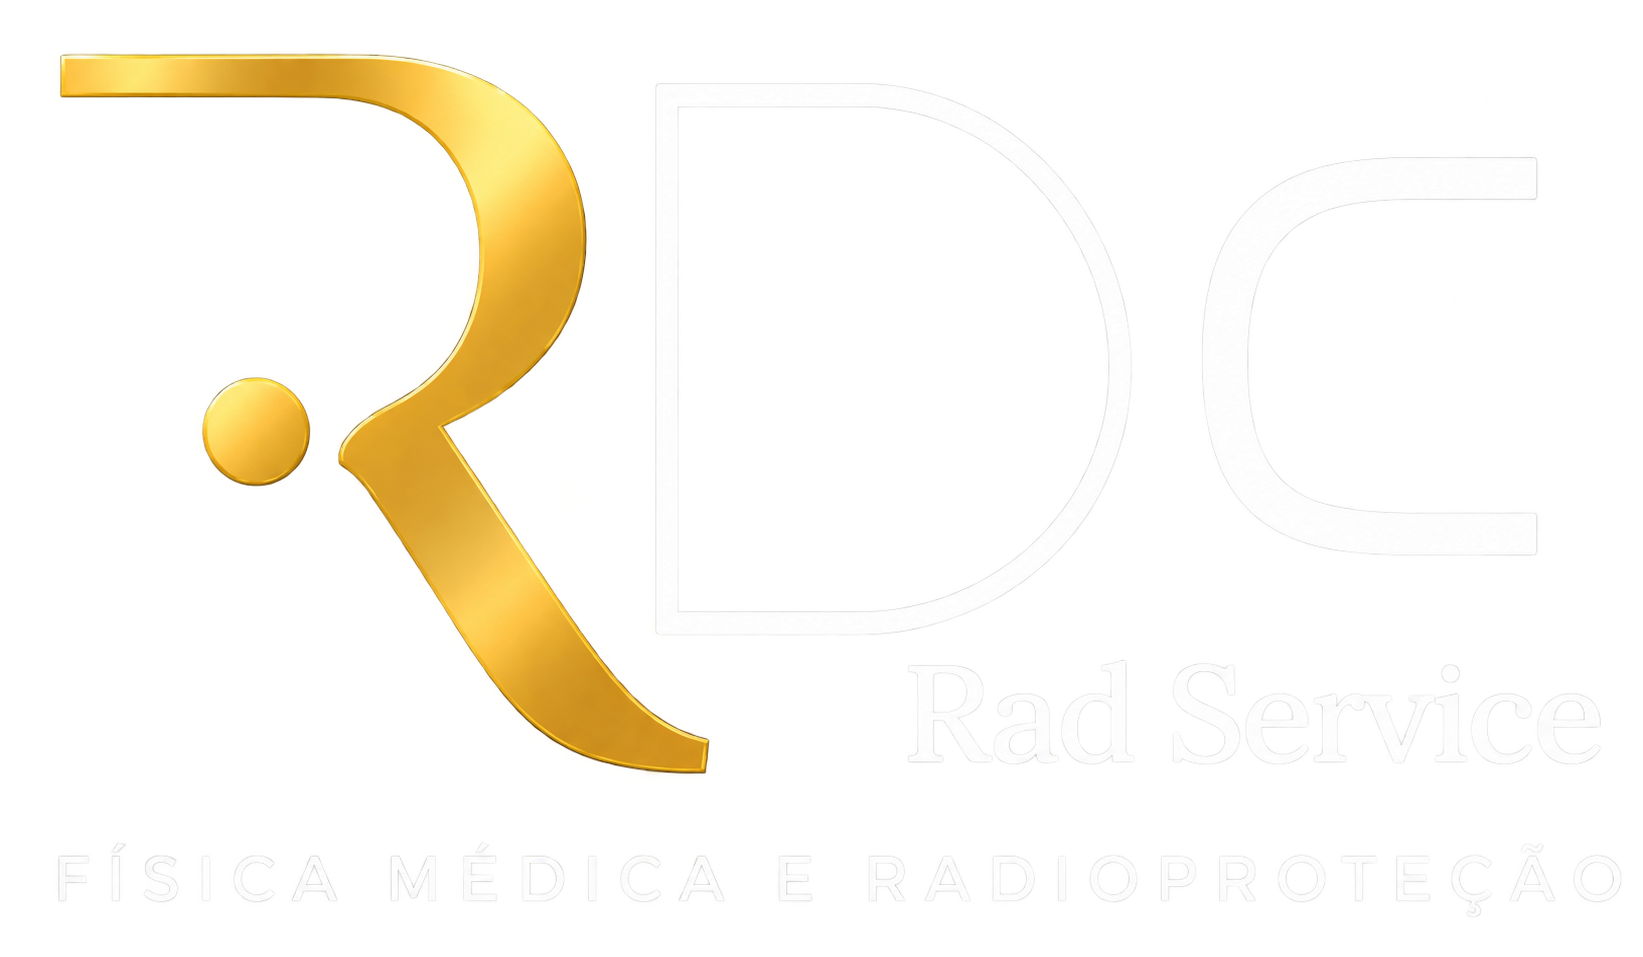
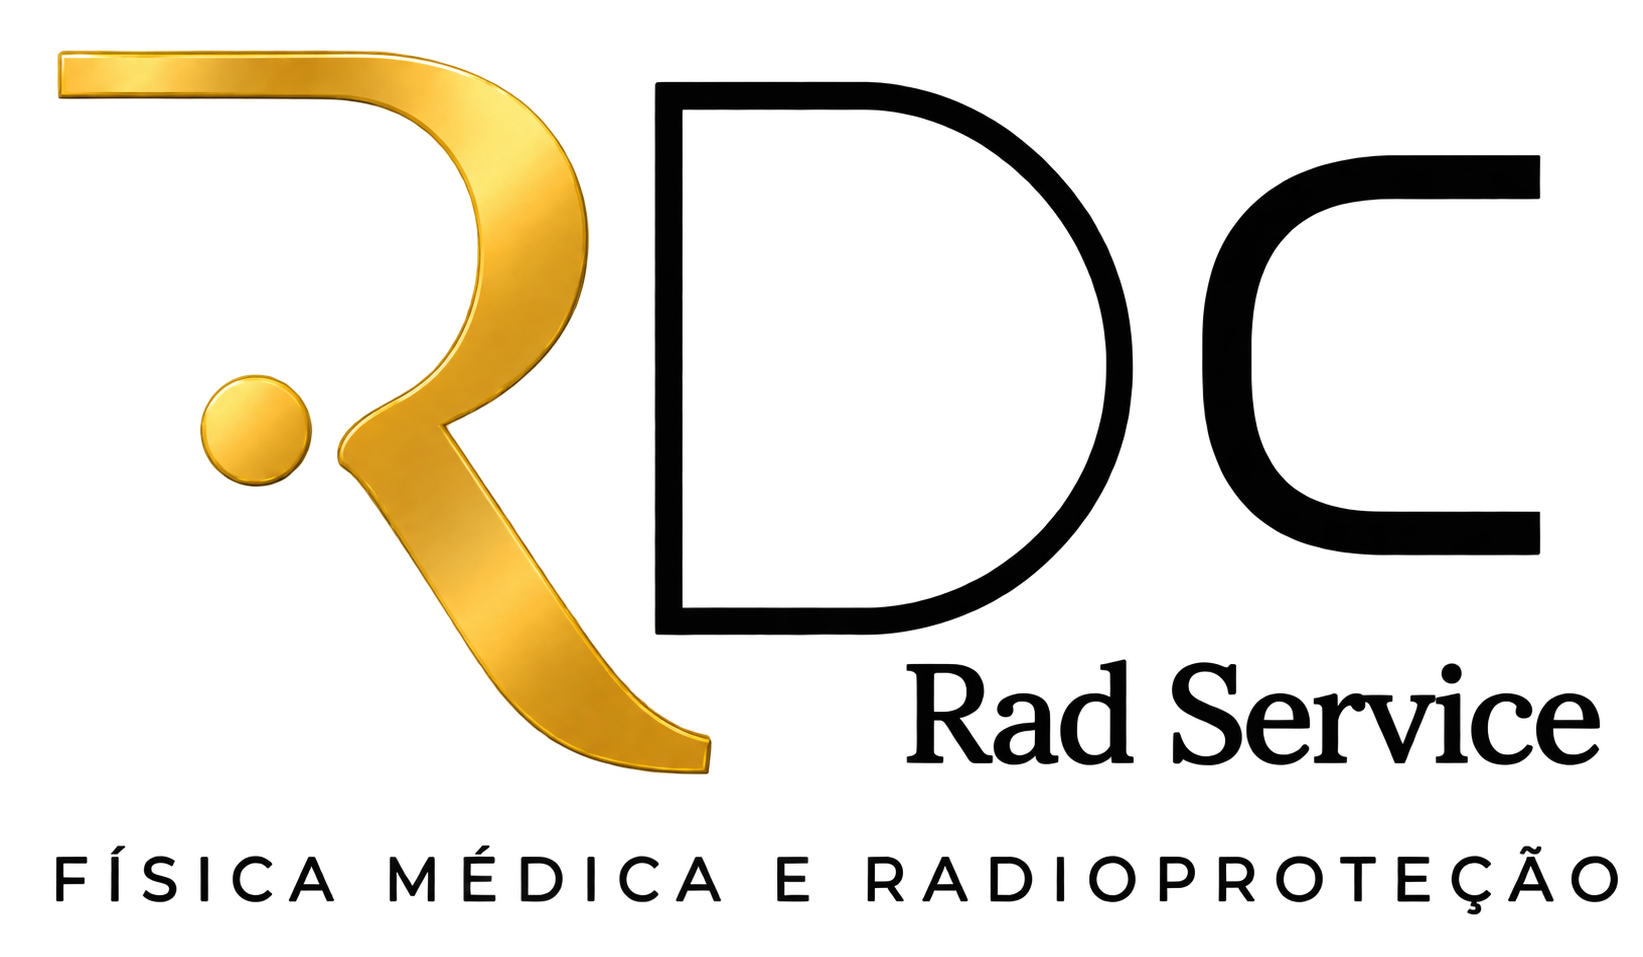
Remove fundo da Radioterapia Nordeste e escurece letras da RDC

diff --git a/index.html b/index.html
@@ -158,8 +158,8 @@
             <a class="sponsor-logo" href="https://www.instagram.com/ifm.med?srtk=MTR3N3ZzcHJ5NGJ1eQ==" target="_blank" rel="noopener noreferrer" aria-label="IFM — abrir Instagram em nova aba"><img src="assets/patrocinadores/ifm.png" alt="IFM — Instituto de Física Médica" width="240" height="160" loading="lazy" /></a>
             <div class="sponsor-logo"><img src="assets/patrocinadores/mca.png" alt="MCA — Soluções em Radioproteção e Radiodiagnóstico" width="240" height="160" loading="lazy" /></div>
             <a class="sponsor-logo" href="https://www.instagram.com/quantacfm/" target="_blank" rel="noopener noreferrer" aria-label="Quantac — abrir Instagram em nova aba"><img src="assets/patrocinadores/quantac.png" alt="Quantac" width="240" height="160" loading="lazy" /></a>
-            <a class="sponsor-logo" href="https://www.instagram.com/radioterapianordeste?srtk=dHprbDB6ZDdiazZy" target="_blank" rel="noopener noreferrer" aria-label="Radioterapia Nordeste — abrir Instagram em nova aba"><img src="assets/patrocinadores/radioterapia-nordeste.png" alt="Radioterapia Nordeste" width="240" height="160" loading="lazy" /></a>
-            <a class="sponsor-logo" href="https://www.instagram.com/rdc.radservice?srtk=bWdjZnBvYzg0eGVu" target="_blank" rel="noopener noreferrer" aria-label="RDC — abrir Instagram em nova aba"><img src="assets/patrocinadores/rdc.png" alt="RDC — Rad Service" width="240" height="160" loading="lazy" /></a>
+            <a class="sponsor-logo" href="https://www.instagram.com/radioterapianordeste?srtk=dHprbDB6ZDdiazZy" target="_blank" rel="noopener noreferrer" aria-label="Radioterapia Nordeste — abrir Instagram em nova aba"><img src="assets/patrocinadores/radioterapia-nordeste.png?v=20261026-2" alt="Radioterapia Nordeste" width="240" height="160" loading="lazy" /></a>
+            <a class="sponsor-logo" href="https://www.instagram.com/rdc.radservice?srtk=bWdjZnBvYzg0eGVu" target="_blank" rel="noopener noreferrer" aria-label="RDC — abrir Instagram em nova aba"><img src="assets/patrocinadores/rdc.png?v=20261026-2" alt="RDC — Rad Service" width="240" height="160" loading="lazy" /></a>
           </div>
         </div>
         <div class="sponsor-tier">
